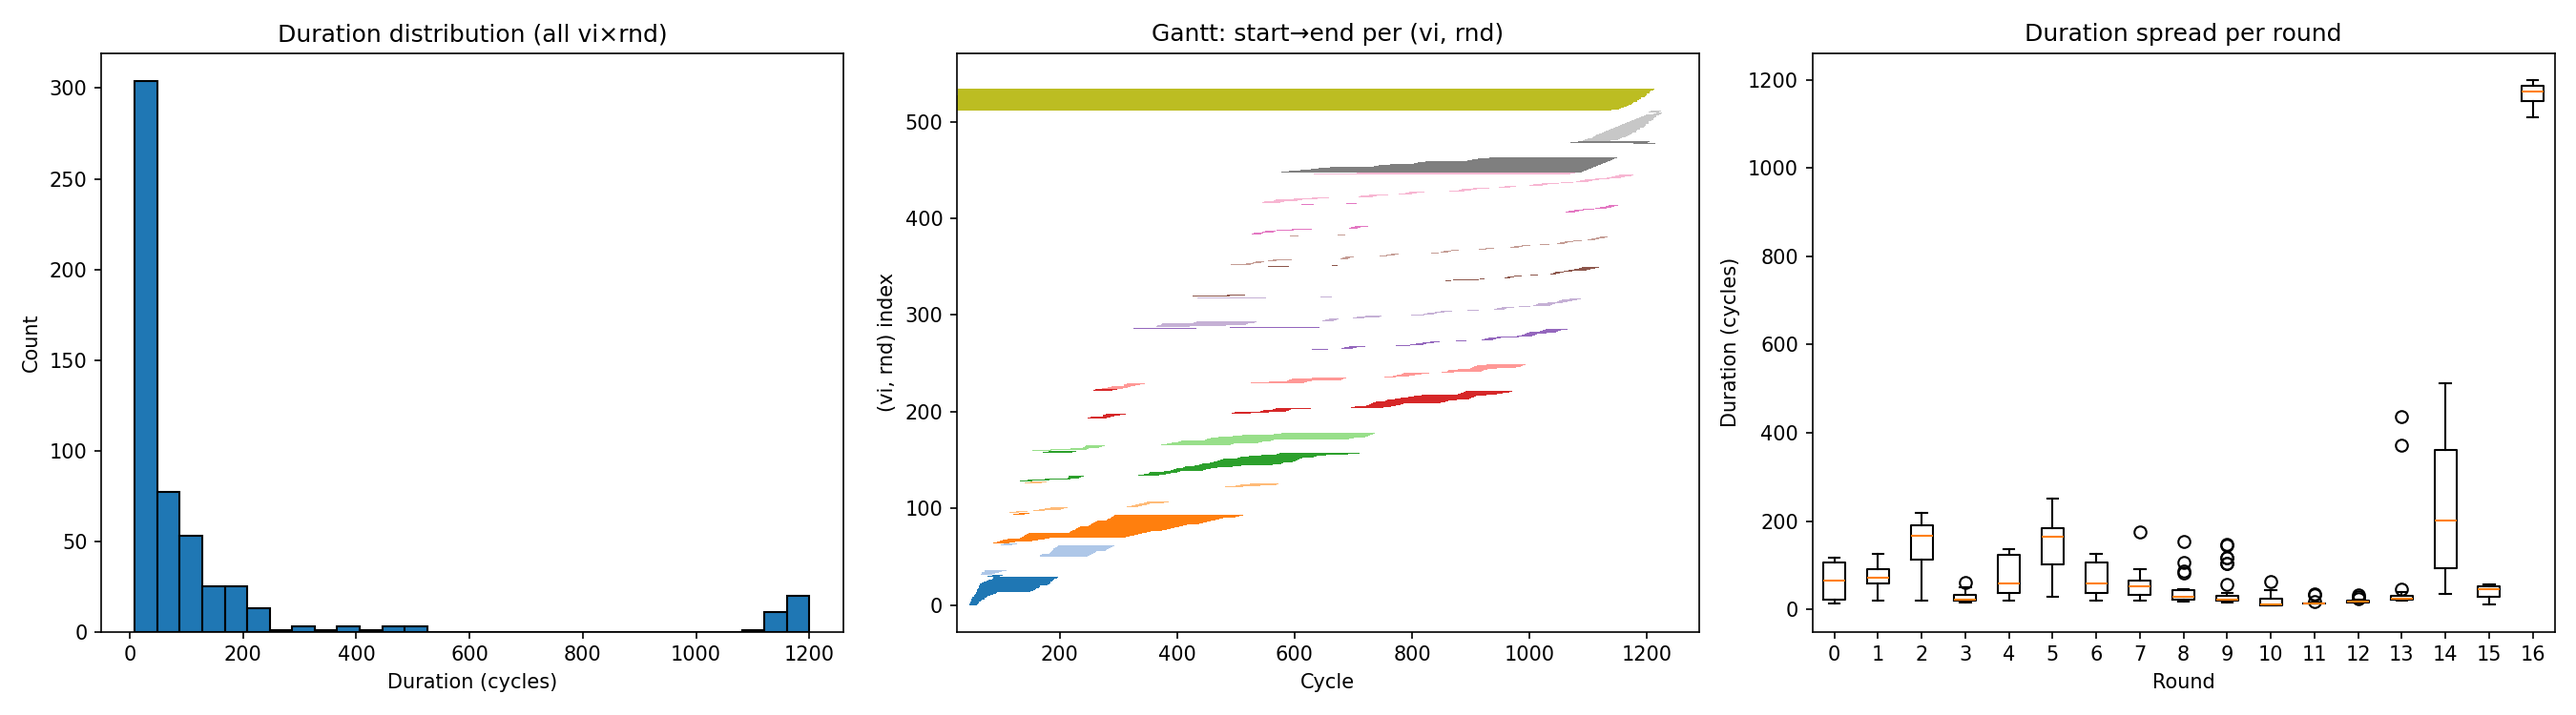
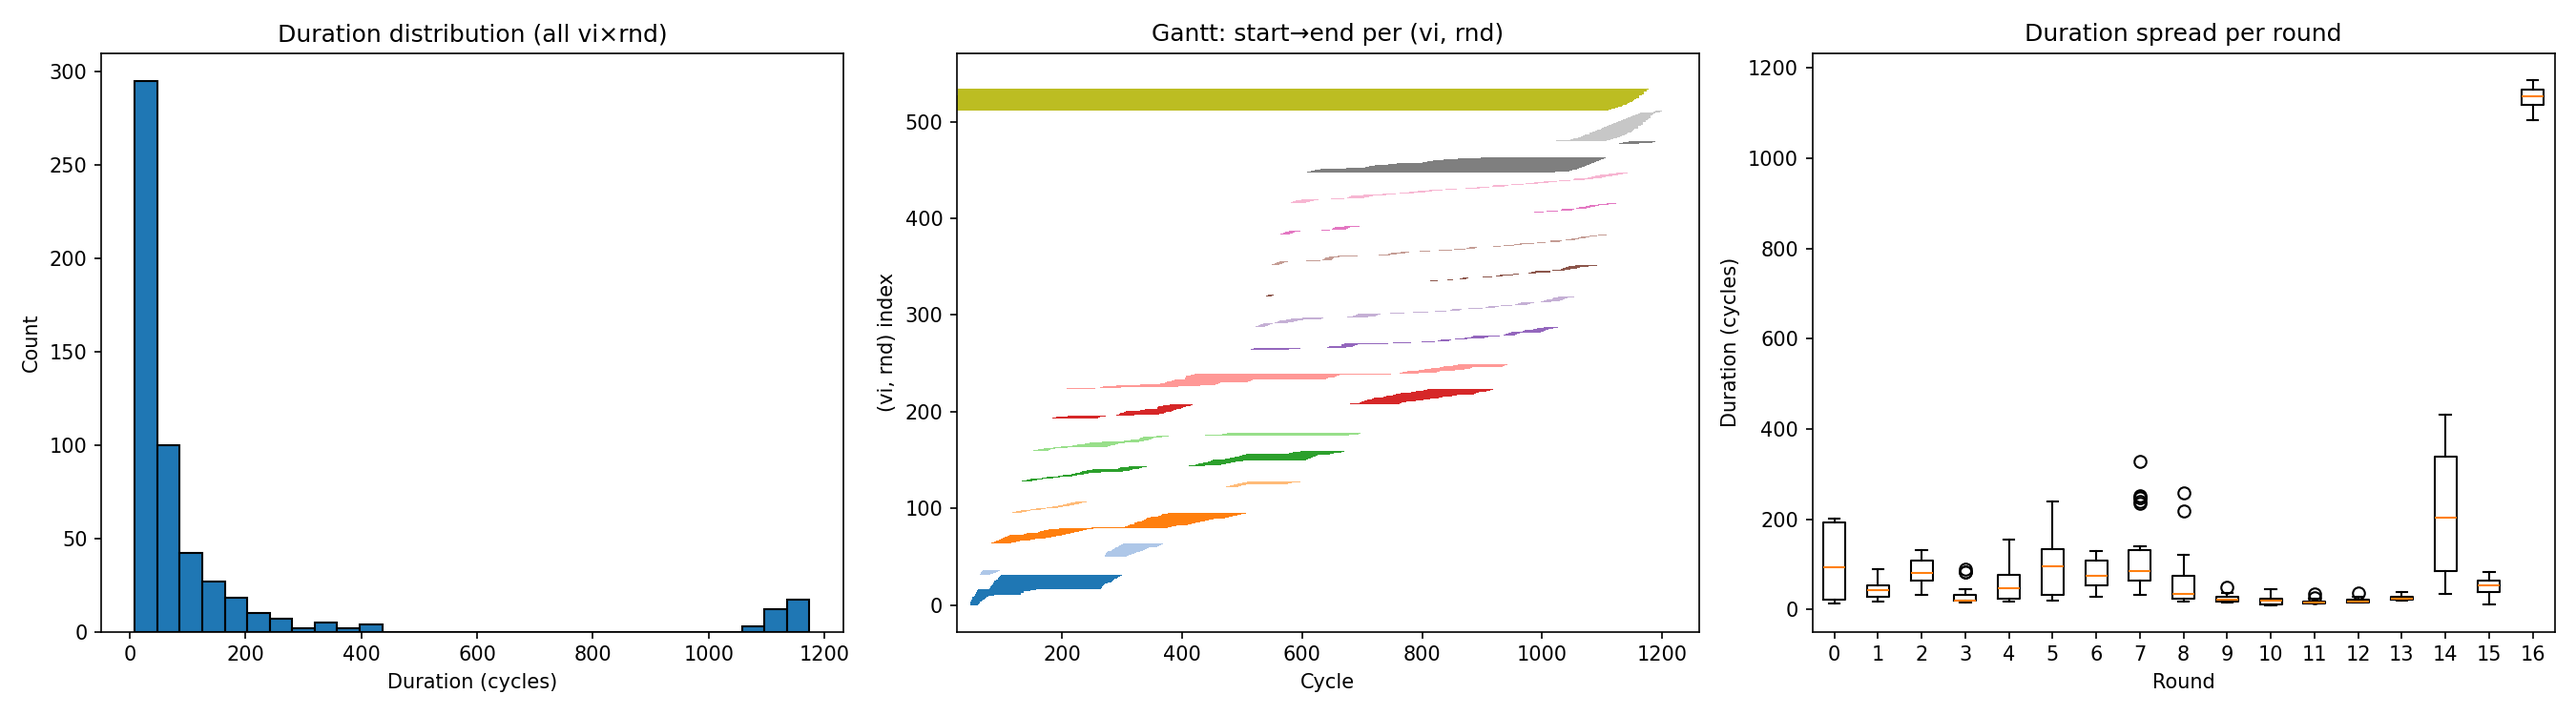
focus on load starvation at beginning

diff --git a/perf_takehome.py b/perf_takehome.py
@@ -628,14 +628,12 @@ def schedule(slots, slot_limits, allocator, tags=None):
         # Adaptive starvation: bias remaining-preds metric toward starved resource
         n_ready_loads = sum(1 for i in ready if slots[i][0] == "load")
         n_ready_flows = sum(1 for i in ready if slots[i][0] == "flow")
-        load_starved = n_ready_loads < slot_limits.get("load", 2)
-        flow_starved = n_ready_flows < slot_limits.get("flow", 1)
-        if load_starved and not flow_starved:
-            active_metric = "load"
-        elif flow_starved and not load_starved:
+        load_starved = n_ready_loads < 24
+        flow_starved = n_ready_flows < slot_limits.get("flow", 1) 
+        if flow_starved:
             active_metric = "flow"
         else:
-            active_metric = "either"
+            active_metric = "load"
 
         ready.sort(key=sched_key)
 
@@ -1198,9 +1196,9 @@ class KernelBuilder:
         # Subtract kept: removing it saves ops but hurts scheduling (fewer deps = more
         # scratch pressure). With subtract: 1231 cycles, without: 1266 cycles.
         _level_start_1based = {2: "four_vec", 3: "eight_vec", 4: "sixteen_vec"}
-        adjusted_idx = self.new_vreg_vec(f"mux{k}_adjusted_idx_vec{index}")
-        slots.append(("valu", ("-", adjusted_idx, idx_vreg, self.pinned_vreg(_level_start_1based[k], VLEN))))
-        bit_source = adjusted_idx
+        # adjusted_idx = self.new_vreg_vec(f"mux{k}_adjusted_idx_vec{index}") neither of these are needed, due to schedule quirks somehow works better
+        # slots.append(("valu", ("-", adjusted_idx, idx_vreg, self.pinned_vreg(_level_start_1based[k], VLEN))))
+        bit_source = idx_vreg
 
         for stage in range(k):
             shift_slots, condition_vreg = extract_bit(bit_source, stage, stage, index)
@@ -1292,7 +1290,7 @@ class KernelBuilder:
         two_vec = self.pinned_vreg("two_vec", VLEN)
         four_vec = self.pinned_vreg("four_vec", VLEN)
         eight_vec = self.pinned_vreg("eight_vec", VLEN)
-        sixteen_vec = self.pinned_vreg("sixteen_vec", VLEN)
+        # sixteen_vec = self.pinned_vreg("sixteen_vec", VLEN)
         forest_p_vec = self.pinned_vreg("forest_p_vec", VLEN)
 
         emit(("valu", ("vbroadcast", zero_vec, zero_const)))
@@ -1300,7 +1298,7 @@ class KernelBuilder:
         emit(("valu", ("vbroadcast", two_vec, two_const)))
         emit(("valu", ("vbroadcast", four_vec, self.scratch_const(4))))
         emit(("valu", ("vbroadcast", eight_vec, self.scratch_const(8))))
-        emit(("valu", ("vbroadcast", sixteen_vec, self.scratch_const(16))))
+        # emit(("valu", ("vbroadcast", sixteen_vec, self.scratch_const(16))))
         emit(("valu", ("vbroadcast", forest_p_vec, param_vregs["forest_values_p"])))
         # 1-based indexing: gather uses forest_p - 1 + idx' instead of forest_p + idx
         forest_p_m1_vec = self.pinned_vreg("forest_p_m1_vec", VLEN)
@@ -1373,7 +1371,7 @@ class KernelBuilder:
 
             # Optimal mux/gather split: balance flow (mux) vs load (gather)
             # m = 4n / (2^k + 3), rounded to nearest int
-            mux_count = {0: n_vectors, 1: n_vectors, 2: n_vectors, 3: n_vectors - 2, 4: 1}
+            mux_count = {0: n_vectors, 1: n_vectors, 2: n_vectors, 3: n_vectors, 4: 2}
 
             for vi in range(n_vectors):
                 idx_loaded = idx_vecs[vi]
